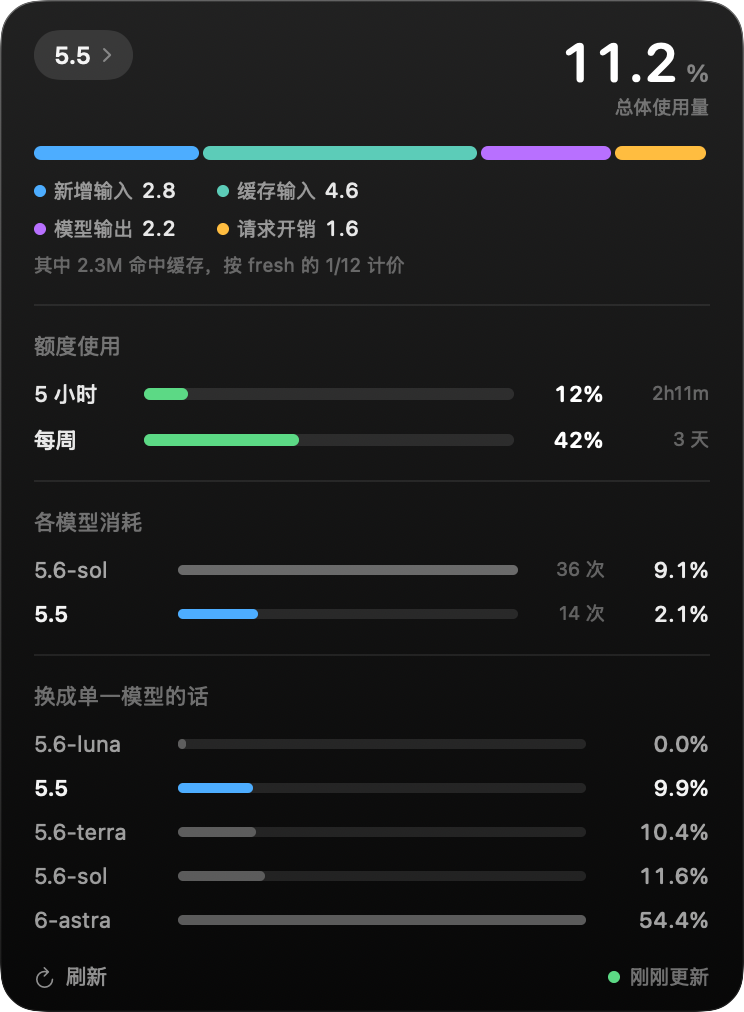
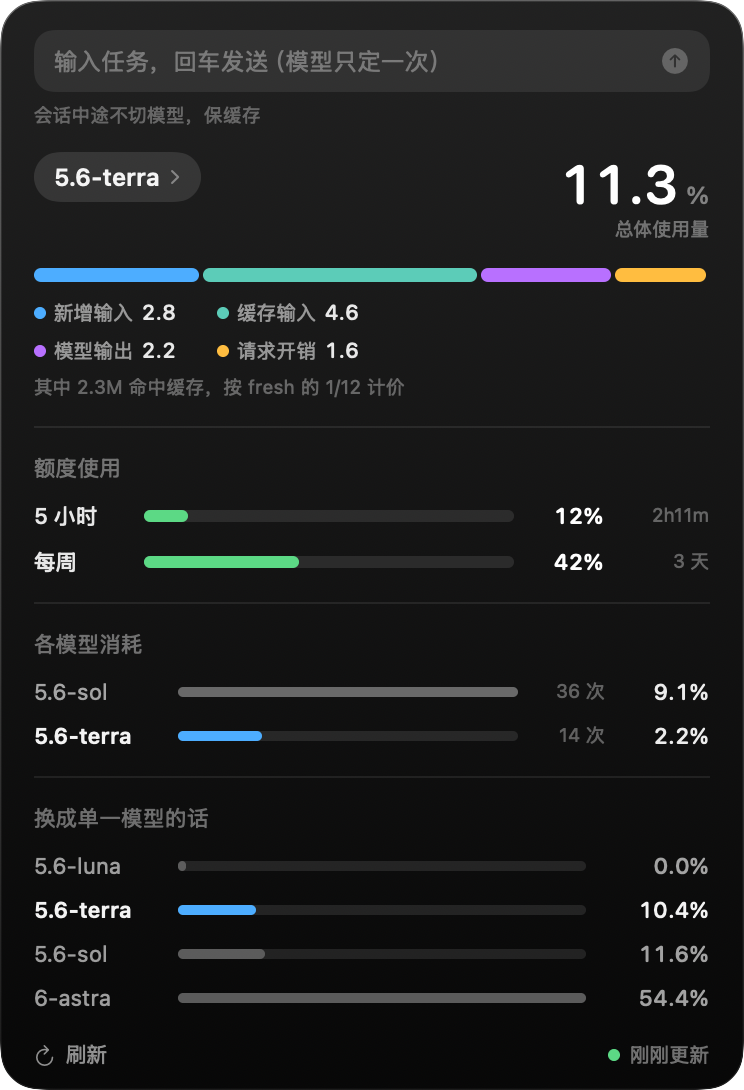
对照里去掉 gpt-5.5（路线图 1.5）
gpt-5.5 是老模型，已经不用；它的系数是按 sol 比例缩放的，真实会话验证集显示它被
低估 13%~33%，面板却因此把它显示成「比 sol 便宜」，提醒里还可能建议换过去。

- research/coefficients.json：5.5 不参加对照；系数保留，只用来折算历史用量
- 面板「换成单一模型」、提醒里的换模型建议、CLI 对照都不再出现 5.5
- 两份 README 系数表去掉 5.5，相关说明改为只讲 Terra
- 固定样本 normal 里的第二段会话改用 gpt-5.6-terra，README 截图重新渲染
- 路线图第 3 版：记下 D1、D2、D3、D6、D7 的决定，0.4、1.5 已做，2.4 取消

diff --git a/Sources/Budget.swift b/Sources/Budget.swift
@@ -16,7 +16,8 @@ enum Budget {
     // 系数来自受控实验（详见仓库 research/）：
     //   sol   —— 全部 sol 测量联合非负拟合（research/refit.py），140 个回归点 RMS 0.84
     //   astra —— 纯 astra 回归；缓存费率由 astra/bigctx（约 12 万上下文）定下，约 25 万
-    //   5.5 / terra —— 只测到整体乘数（±0.11），按比例缩放
+    //   terra —— 只测到整体乘数（±0.11），按比例缩放
+    //   5.5   —— 老模型，不参加对照；系数只用来折算历史用量（真实使用里它被低估 13%~33%）
     //   luna  —— 30 次调用零消耗
     // 缓存输入约比 fresh 便宜 12 倍。
     //

diff --git a/Sources/Coefficients.swift b/Sources/Coefficients.swift
@@ -13,5 +13,5 @@ extension Budget {
     /// 没有系数的模型按它估算
     static let fallback = coef["gpt-5.6-sol"]!
     /// 出现在「换成单一模型」对照和换模型建议里的模型
-    static let counterfactualModels: [String] = ["gpt-5.6-sol", "gpt-5.5", "gpt-5.6-terra", "gpt-5.6-luna", "gpt-6-astra"]
+    static let counterfactualModels: [String] = ["gpt-5.6-sol", "gpt-5.6-terra", "gpt-5.6-luna", "gpt-6-astra"]
 }

diff --git a/cli/codex_budget.py b/cli/codex_budget.py
@@ -36,7 +36,7 @@ WIN_5H, WIN_WEEK = 300, 10080
 # 与 Sources/Budget.swift 保持一致，来龙去脉见那边的注释。简言之：对全部 sol
 # 测量做联合非负最小二乘（research/refit.py，读数滞后一次对齐），sol 140 个回归点
 # RMS 0.84。req/* 与 ctx/* 把 fresh 和「每请求」拆开了：旧版 0.0819% 里大半其实是
-# fresh 成本。5.5 / terra 与 sol 分不出来，按 0.86× / 0.90× 缩放；astra 的缓存费率
+# fresh 成本。terra 与 sol 分不出来，按 0.90× 缩放（5.5 是老模型，不参加对照）；astra 的缓存费率
 # 由 astra/bigctx 定下，fresh 与每请求的拆分仍不稳。
 # 数值只存在 research/coefficients.json（app 由它生成、refit 也读它）
 COEF_FILE = os.path.join(os.path.dirname(os.path.abspath(__file__)), os.pardir,

diff --git a/tests/fixtures.py b/tests/fixtures.py
@@ -91,14 +91,14 @@ def normal(root, now):
         if i == 10:
             s.tokens(t + 5, None, lim)
     s.close()
-    s, n2 = Session(root, now - 1.2 * H, "gpt-5.5"), 14
+    s, n2 = Session(root, now - 1.2 * H, "gpt-5.6-terra"), 14
     for i in range(n2):
         s.tokens(now - 1.1 * H + i * 270, usage(i, fresh=1_800, cached=22_000, output=300),
                  {"primary": window(300, ramp(10, 12, i, n2), r5),
                   "secondary": window(10080, ramp(41, 42, i, n2), rw)})
     s.close()
     return {"requests": 50, "five_hour": 12, "weekly": 42, "pools": [], "binding": 42,
-            "current_model": "gpt-5.5", "models": {"gpt-5.6-sol": 36, "gpt-5.5": 14}}
+            "current_model": "gpt-5.6-terra", "models": {"gpt-5.6-sol": 36, "gpt-5.6-terra": 14}}
 
 
 def reserve(root, now):

diff --git a/docs/ROADMAP.md b/docs/ROADMAP.md
@@ -1,7 +1,7 @@
 # codex-cost 路线图
 
 > 以后所有任务都从这份文档出发：动手前在这里挑一项，做完回来更新状态。
-> 最后更新：2026-09-15（第 2 版：加入 G1 与 2.1 的回测结论）
+> 最后更新：2026-09-15（第 3 版：记下 D1、D2、D3、D6、D7 的决定；完成 0.4、1.5）
 
 ## 一句话
 
@@ -79,6 +79,8 @@
 | `docs/roadmap` | 这份路线图第 1 版 |
 | `chore/phase0` | 实验目录归一（0.3） |
 | `exp/offline-backtests` | 回测脚本与本版路线图 |
+| `chore/coefficients-json` | 系数只存一处（0.4） |
+| `fix/drop-gpt-5.5-comparison` | 对照里去掉 gpt-5.5（1.5）与本版路线图 |
 | `feat/codex-hook` | Codex 路由钩子与安装脚本。G1 不过，不合并，留作记录 |
 
 ### 还没对上的数
@@ -87,20 +89,21 @@
 |---|---|
 | sol 缓存费率 | 实验联合拟合 49.3 万 tok/1%；真实片段约 38.8 万；`ctx/*` 单独约 35 万 |
 | 真实使用整体 | 190 段相对误差中位数 −23%（9 月 −13%） |
-| gpt-5.5 / terra | 由 sol 按比例缩放；真实数据显示 5.5 低估 13% ~ 33% |
+| terra | 由 sol 按比例缩放，没有直测 |
+| gpt-5.5 | 老模型，已不用；从对照里去掉（真实使用里被低估 13% ~ 33%） |
 | 对照组 | 上次运行 09-09，之后发生过一次额度重置 |
 
 ## 待你决定
 
 | # | 问题 | 建议 | 影响 |
 |---|---|---|---|
-| D1 | 刘海里的任务输入要不要撤 | 撤；G1 不过，`cx` 也先不做，需要时直接用 `cli/codex_route.py` | 面板更轻、不再抢键盘 |
-| D2 | Codex 路由钩子装不装 | 不装；`feat/codex-hook` 留作记录不合并 | 无 |
-| D3 | 路由代码怎么处理 | 撤掉刘海入口后只留 `cli/codex_route.py`；README「任务路由」一节改写为回测结论 | README 定位回到「看额度」 |
+| D1 | 刘海里的任务输入要不要撤 | **已定：撤**；`cx` 不做，需要时直接用 `cli/codex_route.py` | 面板更轻、不再抢键盘 |
+| D2 | Codex 路由钩子装不装 | **已定：不装**；`feat/codex-hook` 留作记录不合并 | 无 |
+| D3 | 路由代码怎么处理 | **已定**：撤掉刘海入口后只留 `cli/codex_route.py`；README「任务路由」一节改写为回测结论 | README 定位回到「看额度」 |
 | D4 | 展开面板上沿要不要从纯黑渐变接刘海 | 小改，可做可不做 | 视觉接缝 |
 | D5 | 仓库外的 `quota-probe` 目录 | 已按建议处理：需要的文件已复制进 `research/`，原目录没删，你确认后可以自己删 | 已做 |
-| D6 | 「用得省」要不要改做缓存失效提示 | 做成「看得清」的一部分：面板显示最近会话的上下文大小和空闲时长，空闲超过阈值时提示「继续这段会话约要 x% 额度」 | 能影响的额度约 3% ~ 11% |
-| D7 | 面板里 gpt-5.5 / terra 的对照数字 | 直测之前先标成「未直测」，或暂时从对照里去掉 | 修正误导性的「5.5 更便宜」 |
+| D6 | 「用得省」要不要改做缓存失效提示 | **已定：做（1.6）**。做成「看得清」的一部分：面板显示最近会话的上下文大小和空闲时长，空闲超过阈值时提示「继续这段会话约要 x% 额度」 | 能影响的额度约 3% ~ 11% |
+| D7 | 面板里 gpt-5.5 / terra 的对照数字 | **已定：5.5 是老模型，不测了，直接从对照里去掉（1.5 已做）**；terra 保留 | 修正误导性的「5.5 更便宜」 |
 | D8 | 推送与远端清理 | 把三个本地分支合进 main 并推送；删除远端已合并的 `claude/…`、`cursor/…` 分支 | 公开仓库 |
 
 ## 路线
@@ -114,7 +117,7 @@
 | 0.1 | 整理分支 | 本地已合并分支已删；远端 `claude/…`、`cursor/…` 待删 | S | 本地已做 · 远端待你确认（D8） |
 | 0.2 | 未验证的钩子提交挪到 `feat/codex-hook` | `test/fixtures` 已删 | S | 已做 |
 | 0.3 | 实验目录归一（D5） | 作废结果收进 `research/invalid/`；日志和 `research/sandbox/` 不入库 | S | 已做 |
-| 0.4 | 系数只存一处 | `research/coefficients.json` 为唯一来源；refit 和 CLI 直接读；Swift 和 README 表格由测试核对一致。系数 v5 之前做 | M | 待做 |
+| 0.4 | 系数只存一处 | `research/coefficients.json` 为唯一来源；refit 和 CLI 直接读；Swift 和 README 表格由测试核对一致。系数 v5 之前做 | M | 已做 |
 | 0.5 | 持续集成 | GitHub Actions（macOS）：构建 + 全部测试，PR 必须通过 | M | 待做 |
 | 0.6 | GitHub 封面 | 仓库 Settings → Social preview 上传 `docs/social-preview.png` | S | 你来做（已做就勾掉） |
 
@@ -122,12 +125,12 @@
 
 | ID | 任务 | 完成标准 | 规模 | 状态 |
 |---|---|---|---|---|
-| 1.1 | 撤掉刘海任务输入（D1、D3） | 删掉输入框、`Router.swift`、`TaskLaunch.swift`；路由测试只测 Python；README 改写「任务路由」一节 | M | 待你决定 |
+| 1.1 | 撤掉刘海任务输入（D1、D3） | 删掉输入框、`Router.swift`、`TaskLaunch.swift`；路由测试只测 Python；README 改写「任务路由」一节 | M | 待做 |
 | 1.2 | README 截图 | 用固定样本渲染「历史用量」页，放进两份 README | S | 待做 |
 | 1.3 | 未知模型说明 | 历史页和 README 说明「未知模型」来自没有记录模型名的早期会话 | S | 待做 |
 | 1.4 | 展开面板上沿（D4） | 真机截图确认接缝 | S | 待你决定 |
-| 1.5 | 5.5 / terra 对照标注（D7） | 面板和 CLI 不再显示「5.5 比 sol 便宜」 | S | 待你决定 |
-| 1.6 | 缓存失效提示（D6） | 面板显示最近会话的上下文大小和空闲时长；空闲超过阈值时提示继续要花多少额度；阈值取自上表 | M | 待你决定 |
+| 1.5 | 对照里去掉 gpt-5.5（D7） | 面板对照、提醒里的换模型建议、CLI 对照都不再出现 5.5；系数保留，只用来折算历史用量 | S | 已做 |
+| 1.6 | 缓存失效提示（D6） | 面板显示最近会话的上下文大小和空闲时长；空闲超过阈值时提示继续要花多少额度；阈值取自上表 | M | 待做 |
 
 ### 阶段 2 · 算得准
 
@@ -136,7 +139,7 @@
 | 2.1 | 真实会话验证集 | 190 段真实片段的逐段对比，结论见上 | M | 已做 |
 | 2.2 | 对照组复测 | `control` 20 次，约 4% 的 5 小时额度，确认计费口径没变 | S | 待做（需额度） |
 | 2.3 | 缓存费率复核 → 系数 v5 | 换一天重跑 `cache/bigctx` 形态和 `ctx/200k`，看缓存费率是 49 万还是 38 万左右；定出 v5，并用 `validate_real.py` 验证真实片段误差明显下降 | M | 待做（需额度，先做 0.4、2.2） |
-| 2.4 | gpt-5.5 / terra 直测 | 至少一组 `req` / `ctx` 形态，替换按比例缩放的系数 | M | 等 D7 |
+| 2.4 | gpt-5.5 / terra 直测 | 5.5 是老模型不再测；terra 等真用上再说 | M | 取消（D7） |
 | 2.5 | 连续使用中的缓存失效 | 查 5 分钟内也失效的 95 次有什么共同点（上下文大小、压缩、子 agent） | S | 待做 |
 
 ### 阶段 3 · 用得省：门槛 G1
@@ -153,19 +156,21 @@
 
 - **按任务难度自动选模型**（Codex 钩子、`cx`、跨工具分流）：G1 回测不过，额度 90% 在长会话里
 - **拦截网络请求改模型**：订阅登录不支持，可能违反服务条款；每次换模型缓存都会失效，反而更贵
+- **gpt-5.5 直测**：老模型，已经不用
 - **Claude Code 的额度系数**：要在 Claude 那边另做一整套受控实验
 - **Cursor、Gemini、网页和桌面聊天的用量**：本地没有 token 记录
 - **应用签名和公证**：需要付费的 Apple 开发者账号
 
 ## 风险
 
-- **面板数字偏低**：真实使用里 sol 大约少算 13% ~ 17%，5.5 更多；系数 v5 之前，README 和面板应该说明
+- **面板数字偏低**：真实使用里 sol 大约少算 13% ~ 17%；系数 v5 之前，README 和面板应该说明
 - **Codex 日志格式会变**：这次就多出了 `base_model_inference` 限额。遇到新格式先补一个固定样本，再改代码
 - **额度解析两份实现**：Swift 和 Python 靠 `test_quota` 对账，改一边必须跑测试
-- **系数散在四处**：0.4 做完之前，改系数要同时改 `Budget.swift`、CLI、refit 和两份 README
 
 ## 下一步建议顺序
 
-1. 你定 D1、D6、D7、D8
-2. 0.4 系数只存一处 → 2.2 对照组复测 → 2.3 缓存费率复核，定出系数 v5
-3. 按你的决定做 1.1 / 1.5 / 1.6；0.5、1.2、1.3 穿插着做
+1. 1.1 撤掉刘海任务输入
+2. 1.6 缓存失效提示
+3. 2.2 对照组复测 → 2.3 缓存费率复核，定出系数 v5（需要额度，挑你不用 Codex 的时候）
+4. D8：你确认后把本地分支合进 main 并推送
+5. 0.5、1.2、1.3、2.5 穿插着做

diff --git a/README.zh-CN.md b/README.zh-CN.md
@@ -97,12 +97,11 @@ Cursor 本地虽有 `tokenCount` 字段，但全是 0；Gemini CLI 和 ChatGPT /
 | 模型 | 每 1% 新增输入 | 每 1% 缓存输入 | 每 1% 输出+推理 | 每次请求 |
 |---|---:|---:|---:|---:|
 | `gpt-5.6-sol` | 42,500 tok | 492,537 tok | 13,572 tok | 0.0328% |
-| `gpt-5.5` | 49,419 tok | 572,717 tok | 15,782 tok | 0.0282% |
 | `gpt-5.6-terra` | 47,223 tok | 547,263 tok | 15,080 tok | 0.0295% |
 | `gpt-5.6-luna` | 免费 | 免费 | 免费 | 免费 |
 | `gpt-6-astra` | 35,094 tok\* | 250,428 tok | 2,318 tok | 0.5632%\* |
 
-Sol 的四个系数用全部 Sol 测量做联合非负最小二乘拟合（[`research/refit.py`](research/refit.py)）。5.5 和 Terra 在现有分辨率下与 Sol 分不出来，由 Sol 缩放而来。\*Astra 的缓存费率由一组约 12 万上下文的专门实验定下；其余部分在 fresh 与每请求之间怎么分还不稳（fresh 从 2.5 万到 8 万拟合得几乎一样好）。
+Sol 的四个系数用全部 Sol 测量做联合非负最小二乘拟合（[`research/refit.py`](research/refit.py)）。Terra 在现有分辨率下与 Sol 分不出来，由 Sol 缩放而来；老模型 gpt-5.5 不再列出。\*Astra 的缓存费率由一组约 12 万上下文的专门实验定下；其余部分在 fresh 与每请求之间怎么分还不稳（fresh 从 2.5 万到 8 万拟合得几乎一样好）。
 
 <details>
 <summary><b>这些数字怎么测的，哪里不牢靠</b></summary>
@@ -114,7 +113,7 @@ Sol 的四个系数用全部 Sol 测量做联合非负最小二乘拟合（[`res
 **各模型的可信度**
 
 - **Sol 测得最多，但还没定死** —— 140 个回归点联合拟合，RMS 0.84（舍入噪声下限 0.29），留一交叉验证 0.87。拟合误差明显高于噪声下限，一条真实的 148 次请求会话被高估（88% 对 82%）。各版本在哪些组上准、哪些不准，见下面的表。
-- **5.5 和 Terra 在现有分辨率下与 Sol 分不出来**，误差棒重叠，三个都当 ≈1× 用。
+- **Terra 在现有分辨率下与 Sol 分不出来**，误差棒重叠，两个都当 ≈1× 用。
 - **Astra 只有 4 段数据（约 100 次），Luna 只有 30 次。** Astra 的缓存和输出费率逐段删除仍然稳定，fresh 与每请求的拆分不稳。Luna 和 Astra 的这一部分当数量级看。
 
 **方法本身的局限**

diff --git a/README.md b/README.md
@@ -136,14 +136,14 @@ Each model gets four coefficients instead of one multiplier:
 | Model | New input per 1% | Cached input per 1% | Output + reasoning per 1% | Per request |
 |---|---:|---:|---:|---:|
 | `gpt-5.6-sol` | 42,500 tok | 492,537 tok | 13,572 tok | 0.0328% |
-| `gpt-5.5` | 49,419 tok | 572,717 tok | 15,782 tok | 0.0282% |
 | `gpt-5.6-terra` | 47,223 tok | 547,263 tok | 15,080 tok | 0.0295% |
 | `gpt-5.6-luna` | free | free | free | free |
 | `gpt-6-astra` | 35,094 tok\* | 250,428 tok | 2,318 tok | 0.5632%\* |
 
 Sol's four are fitted jointly on every Sol measurement with non-negative
-least squares ([`research/refit.py`](research/refit.py)). 5.5 and Terra are
-indistinguishable from Sol at this resolution and are scaled from it. \*Astra's
+least squares ([`research/refit.py`](research/refit.py)). Terra is
+indistinguishable from Sol at this resolution and is scaled from it; gpt-5.5, an
+older model, is no longer listed. \*Astra's
 cached rate comes from a dedicated 120K-context cell; how the rest splits between
 fresh input and the per-request floor is still loose (fresh anywhere from 25K to
 80K fits almost equally well).
@@ -161,8 +161,8 @@ These numbers are only worth something if you know their error bars.
   regression points, RMS 0.84 against a 0.29 rounding floor, leave-one-out 0.87.
   The fit error sits well above the floor, and one real 148-request session is
   over-predicted (88% vs. 82%). The table below shows where each version lands.
-- **5.5 and Terra are indistinguishable from Sol** at this resolution. Their
-  error bars overlap; treat all three as ≈1×.
+- **Terra is indistinguishable from Sol** at this resolution. Their error bars
+  overlap; treat both as ≈1×.
 - **Astra rests on four segments (~100 calls); Luna on 30.** Astra's cached and
   output rates hold up when any one segment is dropped; its fresh-vs-per-request
   split does not. Read Luna, and that part of Astra, as order-of-magnitude.
@@ -277,7 +277,6 @@ docs/        screenshots, regenerated from fixtures by docs/render.sh
 ```
 
 ## Contributing
-
 
 Planned work and open decisions live in [docs/ROADMAP.md](docs/ROADMAP.md) (Chinese).
 Measurements from other plans and accounts are the most useful thing you could
